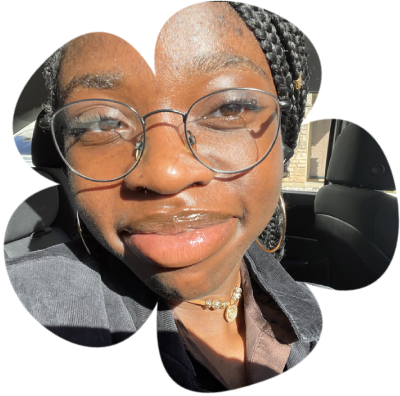
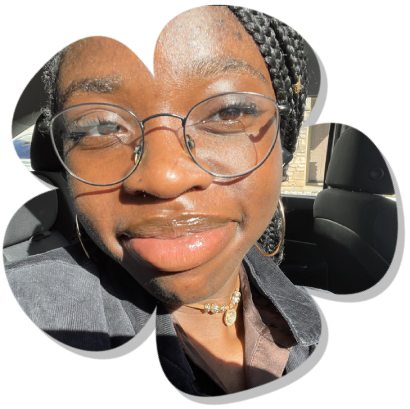
yayayayayshydshfdsflkj;gdslkj;

diff --git a/pages/home.css b/pages/home.css
@@ -1,15 +1,69 @@
 html {
     background-image: linear-gradient(#b8a399, #402d25);
+    
     font-family: 'the-seasons', serif;
     
+    
 }
+
+#intro {
+    position: relative;
+    z-index: 2;
+    margin: 7em 1em 2em 5em;
+    width: 90%;
+    float: left;
+}
+
+img {
+    float: right;
+    width: 34%;
+    display: flex;
+    align-items: start;
+    animation: fadeinall ease .5s;
+  animation-iteration-count: 1;
+  animation-fill-mode: forwards;
+
+}
+
+p {
+    font-family: 'Arapey', serif;
+    text-align: justify;
+    width: 50%;
+    font-size: 35;
+    color: #d6ccbf;
+    animation: fadeinall ease .5s;
+  animation-iteration-count: 1;
+  animation-fill-mode: forwards;
+}
+
+.h1 {
+    font-size: 60;
+    width: 50%;
+    color: #372f2c;
+    text-align: justify;
+    animation: fadeinall ease .5s;
+  animation-iteration-count: 1;
+  animation-fill-mode: forwards;
+}
+
+.starterpage {
+    position: relative;
+    z-index: 2;
+    
+    
+  }
+
 .hidden{
     display:none;
+    
 }
 
 .nextBtn {
     display: flex;
     justify-content: center;
+    animation: fadeinall ease 5s;
+  animation-iteration-count: 1;
+  animation-fill-mode: forwards;
 }
 
 .next {
@@ -19,7 +73,7 @@ html {
     border: none;
     color: #d2c3b1;
     margin-top: 6em;
-    padding: 1em;
+    padding: 0.5em;
 }
 
 .next:hover {
@@ -27,8 +81,77 @@ html {
 
 }
 
+.mainlinks, .mainlinks a {
+    color:rgb(156, 159, 120);
+    margin-top: 2em;
+    margin-bottom: 3em;
+    font-size: 40;
+    text-decoration: none;
+    animation: fadeinall ease .5s;
+  animation-iteration-count: 1;
+  animation-fill-mode: forwards;
+}
+
+
+.mainlinks a:hover {
+    background-color:#3b2b25;
+    padding: .5em;
+    animation: fadein ease .5s;
+  animation-iteration-count: 1;
+  animation-fill-mode: forwards;
+}
+
+@keyframes fadein {
+    0% {
+      opacity: 50%;
+    }
+    100% {
+      opacity: 1;
+    }
+  }
+
+  @keyframes fadeinall {
+    0% {
+      opacity: 0%;
+    }
+    100% {
+      opacity: 1;
+    }
+  }
+
+  @keyframes fadeinbg {
+    0% {
+      opacity: 0%;
+    }
+    100% {
+      opacity: 0.2;
+    }
+  }
+
+#overlay {
+position:fixed;
+  width: 100%; 
+  height: 100%; 
+  top: 0;
+  left: 0;
+  right: 0;
+  bottom: 0;
+  background-image: url(/images/bganim.gif);
+  background-size: cover;
+  animation: fadeinbg ease 1s;
+  animation-iteration-count: 1;
+  animation-fill-mode: forwards;
+  opacity: 0.2;
+
+}
+
 .name {
     text-align: center;
+    color:#392c28;
     margin-top: 5em;
     font-size: 80;
+    animation: fadeinall ease 2s;
+  animation-iteration-count: 1;
+  animation-fill-mode: forwards;
+    
 }

diff --git a/pages/home.html b/pages/home.html
@@ -14,21 +14,23 @@
     </head>
 
     <body>
+        
         <section class="starterpage" id="start">
             <h1 class="name">sharon adelusi</h1>
             <section class="nextBtn">
                 <button class="next" id="tointro" value="tointro">continue</button>
             </section>
         </section>
+        <div id="overlay"></div>
         <section class="hidden" id="intro">
-        <h1>hi, i'm sharon!</h1>
-        <img src="/images/memememe.png">
+        <img src="/images/memememe.png" id="homephoto">
+        <h1 class="h1">hi, i'm sharon!</h1>
         <p>I’m located in California and I’m currently in my third year of high school, taking an alternative Web
             Application class at the Center for Advanced Research and Technology (CART). I want to go into dermatology when
-            I get older - as a major in college (with fashion design as my minor) and as a future career.</p>
+            I get older — as a major in college (with fashion design as my minor) and as a future career.</p>
         <p>I love anything that has to do with art — drawing, fashion, music... you name it, I’m into it. But, hey, let
             me not say too much now. </p>
-        <h2><a href="/pages/about.html">about</a>⸙<a href="/pages/resume.html">resume</a>❀<a href="/pages/portfolios.html">portfolios</a>⸙<a
+        <h2 class="mainlinks"><a href="/pages/about.html">about</a> ⸙ <a href="/pages/resume.html">resume</a> ❀ <a href="/pages/portfolios.html">portfolios</a> ⸙ <a
                 href="/pages/contact.html">contact</a></h2>
         </section>
     </body>

diff --git a/pages/index.css b/pages/index.css
@@ -8,6 +8,7 @@ html {
   color:#d1c9c7
 }
 
+
 a.tohomepage {
 color: #bcbdad;
 text-decoration: none;
